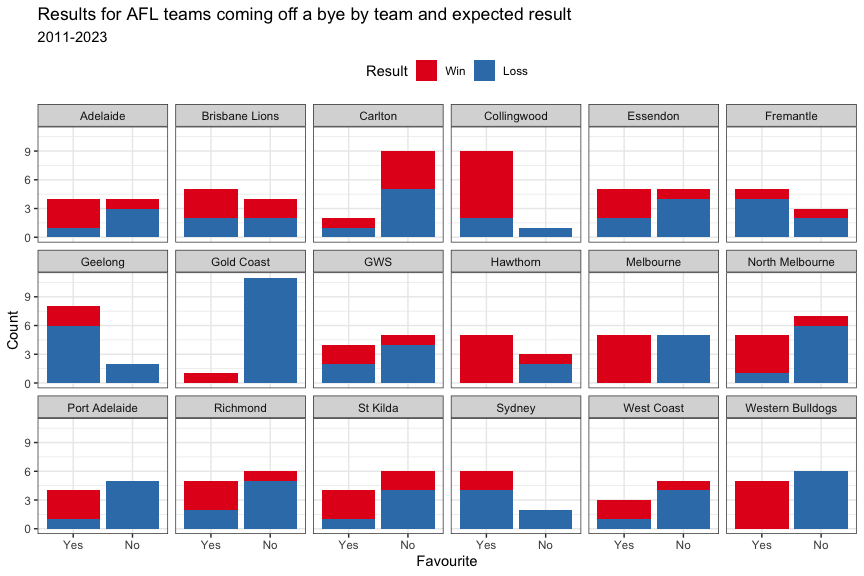
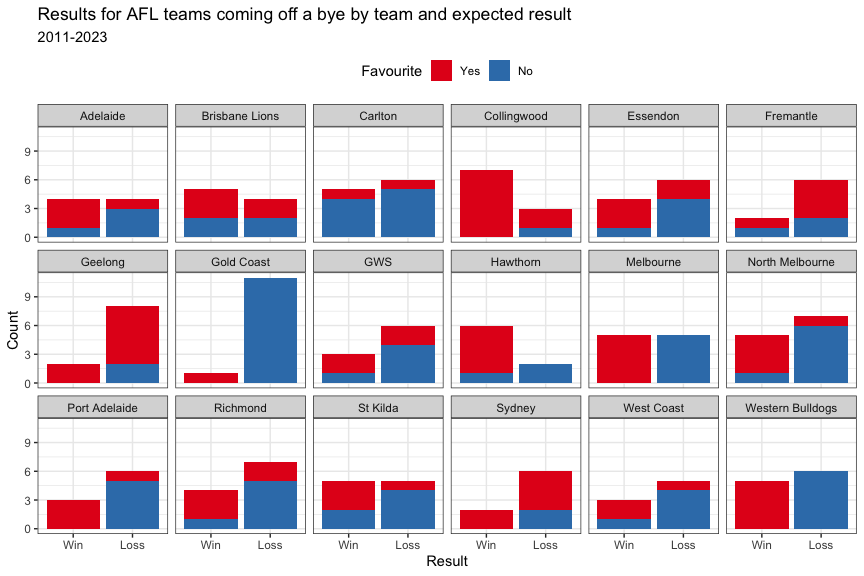
Switched fill for result and favourite

diff --git a/code/R/Rmd/bye_scoring/post_bye_results.md b/code/R/Rmd/bye_scoring/post_bye_results.md
@@ -1,7 +1,7 @@
 AFL: post-bye results
 ================
 Neil Saunders
-2023-07-04 14:24:32
+2023-07-04 14:45:28
 
 - [Summary](#summary)
 - [Data](#data)
